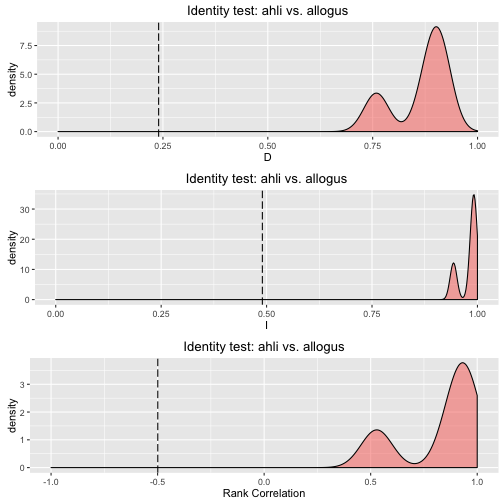
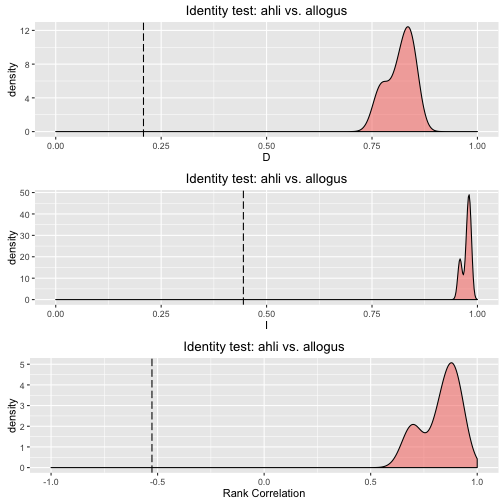
More readme

diff --git a/readme.md b/readme.md
@@ -124,16 +124,16 @@ ahli
 ## 
 ## | Longitude| Latitude|
 ## |---------:|--------:|
-## | -80.14559| 21.97920|
-## | -79.89559| 21.88754|
-## | -80.02059| 21.78754|
-## | -79.93726| 21.97920|
-## | -79.99559| 21.90420|
-## | -80.14559| 21.87087|
-## | -79.94559| 21.89587|
-## | -80.24559| 22.07087|
-## | -80.02892| 22.01254|
-## | -79.83726| 21.70420|
+## | -79.76226| 21.92920|
+## | -80.03726| 22.02920|
+## | -79.91226| 21.98754|
+## | -80.15392| 22.12920|
+## | -80.19559| 22.04587|
+## | -79.80392| 21.77920|
+## | -79.84559| 21.97920|
+## | -79.94559| 22.07920|
+## | -79.87059| 22.11254|
+## | -80.12059| 22.08754|
 ## 
 ## 
 ## Species name:  ahli
@@ -188,16 +188,16 @@ allogus
 ## 
 ## | Longitude| Latitude|
 ## |---------:|--------:|
-## | -78.05392| 20.93754|
-## | -78.07059| 21.06254|
-## | -74.54559| 20.37920|
-## | -78.13726| 21.70420|
-## | -75.73726| 20.00420|
-## | -76.35392| 20.25420|
-## | -75.39559| 20.69587|
-## | -77.43726| 19.93754|
-## | -78.07892| 21.71254|
-## | -77.36226| 21.03754|
+## | -75.79559| 20.26254|
+## | -76.53726| 20.39587|
+## | -78.02059| 21.30420|
+## | -79.22892| 22.07920|
+## | -77.62892| 20.93754|
+## | -75.20392| 20.54587|
+## | -74.72059| 20.43754|
+## | -74.94559| 20.02920|
+## | -77.90392| 21.69587|
+## | -76.89559| 20.84587|
 ## 
 ## 
 ## Species name:  allogus
@@ -240,7 +240,7 @@ ahli.glm
 ## 
 ## 
 ## Formula:  presence ~ layer.1 + layer.2 + layer.3 + layer.4
-## <environment: 0x12748d678>
+## <environment: 0x107659ca8>
 ## 
 ## 
 ## Data table (top ten lines): 
@@ -265,23 +265,23 @@ ahli.glm
 ## 
 ## Deviance Residuals: 
 ##      Min        1Q    Median        3Q       Max  
-## -0.54882  -0.20608  -0.14213  -0.09573   3.09378  
+## -0.55702  -0.20788  -0.14153  -0.09286   3.09568  
 ## 
 ## Coefficients:
 ##              Estimate Std. Error z value Pr(>|z|)  
-## (Intercept) 47.718203  24.544024   1.944   0.0519 .
-## layer.1     -0.013607   0.006376  -2.134   0.0328 *
-## layer.2     -0.012531   0.006547  -1.914   0.0556 .
-## layer.3      0.002635   0.006287   0.419   0.6751  
-## layer.4     -0.005766   0.021544  -0.268   0.7890  
+## (Intercept) 47.682619  25.048562   1.904   0.0570 .
+## layer.1     -0.014138   0.006541  -2.161   0.0307 *
+## layer.2     -0.012517   0.006716  -1.864   0.0624 .
+## layer.3      0.004042   0.006529   0.619   0.5359  
+## layer.4     -0.006479   0.022738  -0.285   0.7757  
 ## ---
 ## Signif. codes:  0 '***' 0.001 '**' 0.01 '*' 0.05 '.' 0.1 ' ' 1
 ## 
 ## (Dispersion parameter for binomial family taken to be 1)
 ## 
 ##     Null deviance: 164.58  on 1015  degrees of freedom
-## Residual deviance: 150.46  on 1011  degrees of freedom
-## AIC: 160.46
+## Residual deviance: 150.56  on 1011  degrees of freedom
+## AIC: 160.56
 ## 
 ## Number of Fisher Scoring iterations: 8
 ## 
@@ -295,7 +295,7 @@ ahli.glm
 ## coord. ref. : NA 
 ## data source : in memory
 ## names       : layer 
-## values      : 2.077607e-06, 0.9999813  (min, max)
+## values      : 1.720404e-07, 0.9999896  (min, max)
 ```
 
 ![plot of chunk unnamed-chunk-8](figure/unnamed-chunk-8-1.png)
@@ -323,10 +323,10 @@ raster.breadth(ahli.glm)
 
 ```
 ## $B1
-## [1] 0.2272109
+## [1] 0.2287029
 ## 
 ## $B2
-## [1] 0.8894404
+## [1] 0.8892694
 ```
 
 
@@ -339,13 +339,13 @@ raster.overlap(ahli.glm, allogus.glm)
 
 ```
 ## $D
-## [1] 0.4715394
+## [1] 0.4730996
 ## 
 ## $I
-## [1] 0.7388009
+## [1] 0.7386463
 ## 
 ## $rank.cor
-## [1] 0.8737144
+## [1] 0.8556342
 ```
 
 ## Hypothesis testing
@@ -434,11 +434,11 @@ id.glm
 ## 
 ## |          |         D|         I|   rank.cor|
 ## |:---------|---------:|---------:|----------:|
-## |empirical | 0.2397549| 0.4899691| -0.4991584|
-## |rep 1     | 0.8817572| 0.9880068|  0.9395090|
-## |rep 2     | 0.9106340| 0.9935519|  0.9602592|
-## |rep 3     | 0.9089809| 0.9925170|  0.8911130|
-## |rep 4     | 0.7588395| 0.9433018|  0.5286053|
+## |empirical | 0.2080842| 0.4449950| -0.5264604|
+## |rep 1     | 0.8443018| 0.9820114|  0.8297136|
+## |rep 2     | 0.8383169| 0.9810832|  0.8899121|
+## |rep 3     | 0.7710835| 0.9587076|  0.8997591|
+## |rep 4     | 0.8127282| 0.9754421|  0.6953960|
 ```
 
 ![plot of chunk unnamed-chunk-12](figure/unnamed-chunk-12-1.png)
